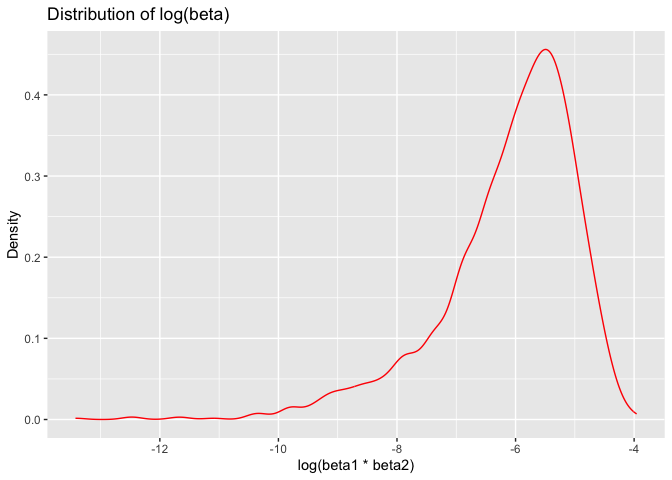
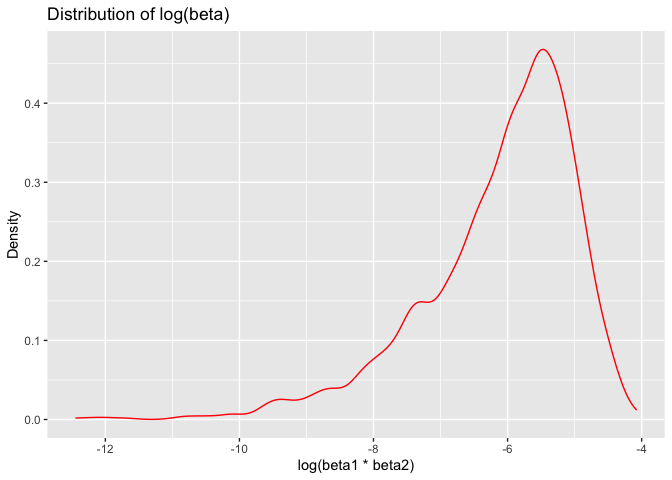
95% CIs for P2

diff --git a/p8105_hw6_vsm2118.md b/p8105_hw6_vsm2118.md
@@ -200,29 +200,29 @@ bootstraps %>%
     ##    name           id          date        prcp  tmax  tmin
     ##    <chr>          <chr>       <date>     <dbl> <dbl> <dbl>
     ##  1 CentralPark_NY USW00094728 2022-12-24     0  -9.3 -13.8
-    ##  2 CentralPark_NY USW00094728 2022-12-24     0  -9.3 -13.8
-    ##  3 CentralPark_NY USW00094728 2022-01-15     0  -6   -12.1
+    ##  2 CentralPark_NY USW00094728 2022-01-15     0  -6   -12.1
+    ##  3 CentralPark_NY USW00094728 2022-01-21     0  -5.5  -9.9
     ##  4 CentralPark_NY USW00094728 2022-01-11     0  -4.3  -9.3
-    ##  5 CentralPark_NY USW00094728 2022-01-30     0  -3.2 -11  
-    ##  6 CentralPark_NY USW00094728 2022-02-05     0  -2.7  -7.1
-    ##  7 CentralPark_NY USW00094728 2022-12-25     0  -2.1  -9.9
-    ##  8 CentralPark_NY USW00094728 2022-12-25     0  -2.1  -9.9
-    ##  9 CentralPark_NY USW00094728 2022-01-22     0  -1.6 -10.5
-    ## 10 CentralPark_NY USW00094728 2022-02-06     0  -1    -8.2
+    ##  5 CentralPark_NY USW00094728 2022-02-14     0  -3.8  -8.8
+    ##  6 CentralPark_NY USW00094728 2022-01-30     0  -3.2 -11  
+    ##  7 CentralPark_NY USW00094728 2022-02-05     0  -2.7  -7.1
+    ##  8 CentralPark_NY USW00094728 2022-02-05     0  -2.7  -7.1
+    ##  9 CentralPark_NY USW00094728 2022-02-05     0  -2.7  -7.1
+    ## 10 CentralPark_NY USW00094728 2022-12-25     0  -2.1  -9.9
     ## # ℹ 355 more rows
     ## 
     ## [[2]]
     ## # A tibble: 365 × 6
     ##    name           id          date        prcp  tmax  tmin
     ##    <chr>          <chr>       <date>     <dbl> <dbl> <dbl>
-    ##  1 CentralPark_NY USW00094728 2022-01-15     0  -6   -12.1
-    ##  2 CentralPark_NY USW00094728 2022-01-21     0  -5.5  -9.9
-    ##  3 CentralPark_NY USW00094728 2022-01-11     0  -4.3  -9.3
-    ##  4 CentralPark_NY USW00094728 2022-01-11     0  -4.3  -9.3
-    ##  5 CentralPark_NY USW00094728 2022-02-14     0  -3.8  -8.8
-    ##  6 CentralPark_NY USW00094728 2022-02-14     0  -3.8  -8.8
-    ##  7 CentralPark_NY USW00094728 2022-02-14     0  -3.8  -8.8
-    ##  8 CentralPark_NY USW00094728 2022-01-30     0  -3.2 -11  
+    ##  1 CentralPark_NY USW00094728 2022-01-11     0  -4.3  -9.3
+    ##  2 CentralPark_NY USW00094728 2022-01-11     0  -4.3  -9.3
+    ##  3 CentralPark_NY USW00094728 2022-02-14     0  -3.8  -8.8
+    ##  4 CentralPark_NY USW00094728 2022-01-30     0  -3.2 -11  
+    ##  5 CentralPark_NY USW00094728 2022-02-05     0  -2.7  -7.1
+    ##  6 CentralPark_NY USW00094728 2022-02-05     0  -2.7  -7.1
+    ##  7 CentralPark_NY USW00094728 2022-02-05     0  -2.7  -7.1
+    ##  8 CentralPark_NY USW00094728 2022-01-26     0  -2.1  -6.6
     ##  9 CentralPark_NY USW00094728 2022-12-25     0  -2.1  -9.9
     ## 10 CentralPark_NY USW00094728 2022-12-25     0  -2.1  -9.9
     ## # ℹ 355 more rows
@@ -231,16 +231,16 @@ bootstraps %>%
     ## # A tibble: 365 × 6
     ##    name           id          date        prcp  tmax  tmin
     ##    <chr>          <chr>       <date>     <dbl> <dbl> <dbl>
-    ##  1 CentralPark_NY USW00094728 2022-01-11     0  -4.3  -9.3
-    ##  2 CentralPark_NY USW00094728 2022-01-11     0  -4.3  -9.3
-    ##  3 CentralPark_NY USW00094728 2022-01-11     0  -4.3  -9.3
-    ##  4 CentralPark_NY USW00094728 2022-02-14     0  -3.8  -8.8
-    ##  5 CentralPark_NY USW00094728 2022-01-26     0  -2.1  -6.6
-    ##  6 CentralPark_NY USW00094728 2022-01-29   196  -1.6 -11  
-    ##  7 CentralPark_NY USW00094728 2022-01-29   196  -1.6 -11  
-    ##  8 CentralPark_NY USW00094728 2022-01-29   196  -1.6 -11  
-    ##  9 CentralPark_NY USW00094728 2022-02-06     0  -1    -8.2
-    ## 10 CentralPark_NY USW00094728 2022-01-31     0  -0.5  -6  
+    ##  1 CentralPark_NY USW00094728 2022-12-24     0  -9.3 -13.8
+    ##  2 CentralPark_NY USW00094728 2022-12-25     0  -2.1  -9.9
+    ##  3 CentralPark_NY USW00094728 2022-12-26     0  -1.6  -7.7
+    ##  4 CentralPark_NY USW00094728 2022-01-29   196  -1.6 -11  
+    ##  5 CentralPark_NY USW00094728 2022-12-26     0  -1.6  -7.7
+    ##  6 CentralPark_NY USW00094728 2022-02-06     0  -1    -8.2
+    ##  7 CentralPark_NY USW00094728 2022-01-28    33   0    -1.6
+    ##  8 CentralPark_NY USW00094728 2022-01-28    33   0    -1.6
+    ##  9 CentralPark_NY USW00094728 2022-01-27     0   0    -8.2
+    ## 10 CentralPark_NY USW00094728 2022-03-28     0   0.6  -4.9
     ## # ℹ 355 more rows
 
 ``` r
@@ -288,6 +288,34 @@ ggplot(aes(x = log_beta)) +
 logbeta_estimate_plot
 ```
 
-    ## Warning: Removed 10155 rows containing non-finite values (`stat_density()`).
+    ## Warning: Removed 10032 rows containing non-finite values (`stat_density()`).
 
 ![](p8105_hw6_vsm2118_files/figure-gfm/unnamed-chunk-4-2.png)<!-- -->
+The R squared plot appears to follow a normal distribution with slight
+leftward skew that is likely a product of random sampling variability.
+However, the log beta plot is highly skewed to the left which may be the
+result of there being negative beta estimates that were not able to be
+used for calculating the log estimates. This strong leftward skew
+suggests that these log beta estimates may not be representative of the
+underlying data set.
+
+95% Confidence Intervals:
+
+``` r
+# Calculate 95% confidence intervals for R squared and log beta
+ci_rsquared = quantile(results_bootstrap$r_squared, c(0.025, 0.975))
+ci_log_beta = quantile(results_bootstrap$log_beta, c(0.025, 0.975), na.rm = TRUE)
+
+# Display confidence interval results
+print(paste("95% CI for R-squared: [", round(ci_rsquared[1], 4), ",", round(ci_rsquared[2], 4), "]"))
+```
+
+    ## [1] "95% CI for R-squared: [ 0.8887 , 0.9408 ]"
+
+``` r
+print(paste("95% CI for log(beta1 * beta2): [", round(ci_log_beta[1], 4), ",", round(ci_log_beta[2], 4), "]"))
+```
+
+    ## [1] "95% CI for log(beta1 * beta2): [ -9.037 , -4.5436 ]"
+
+### Problem 3
